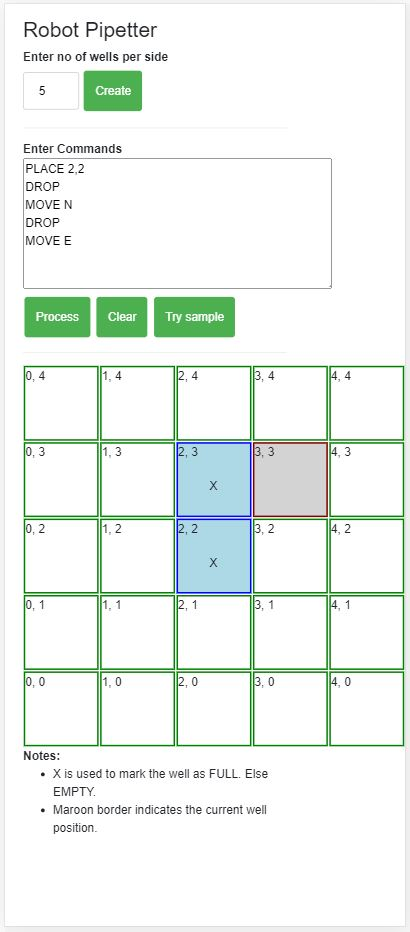
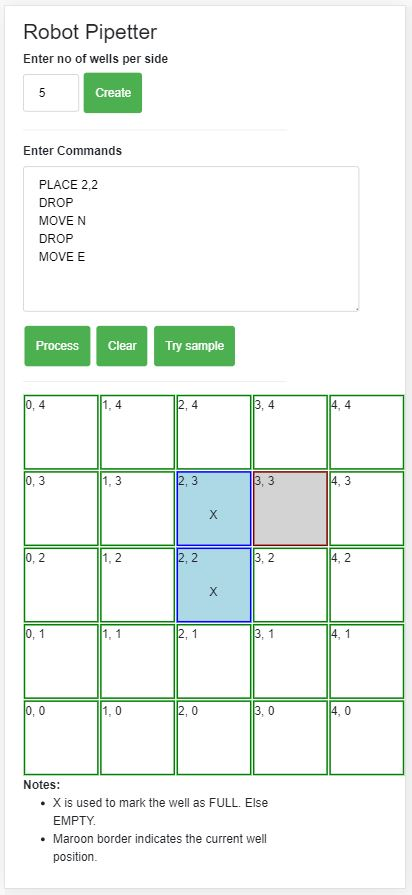
added styling for text area.

Changed region(s): [[0.0585, 0.0, 0.9951, 0.9654], [0.4683, 0.9352, 0.6439, 0.9654], [0.7902, 0.181, 0.8195, 0.2112]]

diff --git a/RobotPipetting/wwwroot/css/site.css b/RobotPipetting/wwwroot/css/site.css
@@ -46,6 +46,15 @@
     box-sizing: border-box;
 }
 
+textarea {
+    padding: 12px 20px;
+    margin: 8px 0;
+    display: inline-block;
+    border: 1px solid #ccc;
+    border-radius: 4px;
+    box-sizing: border-box;
+}
+
 
 
 html, body {
